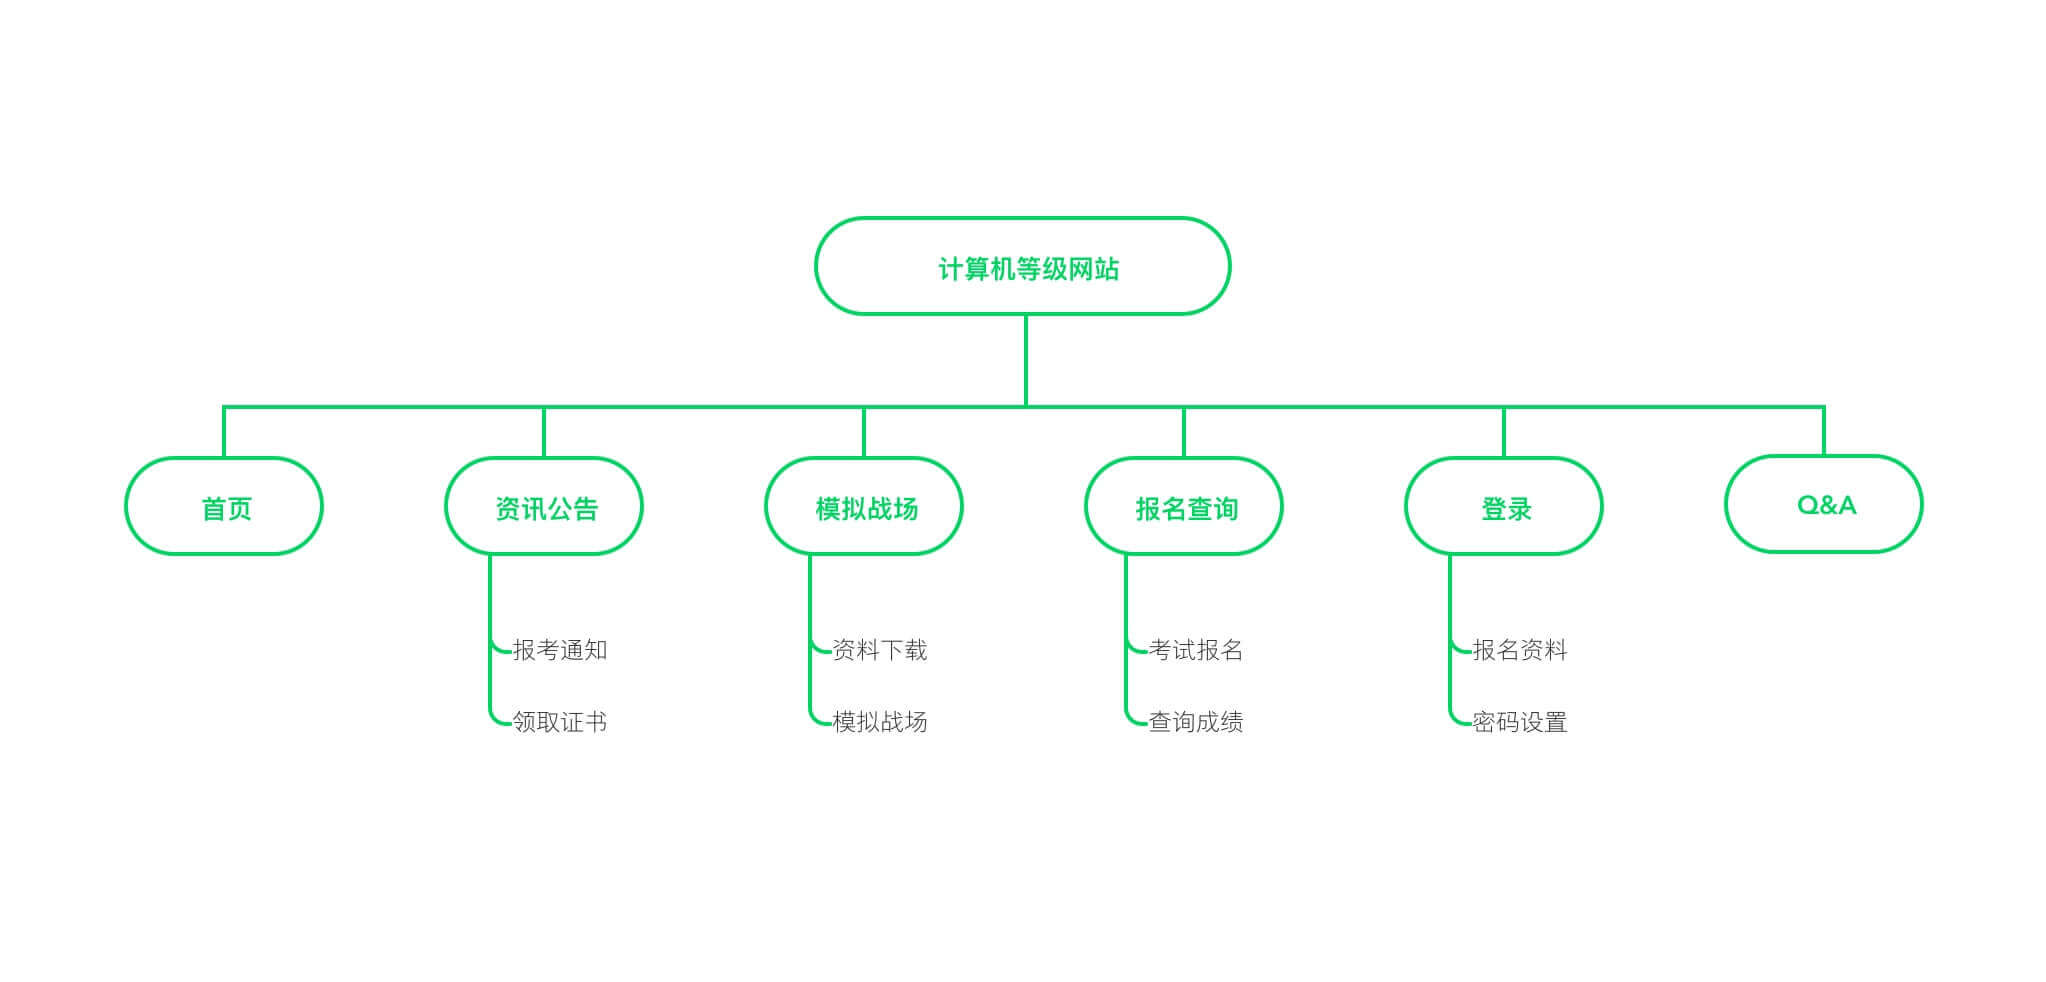
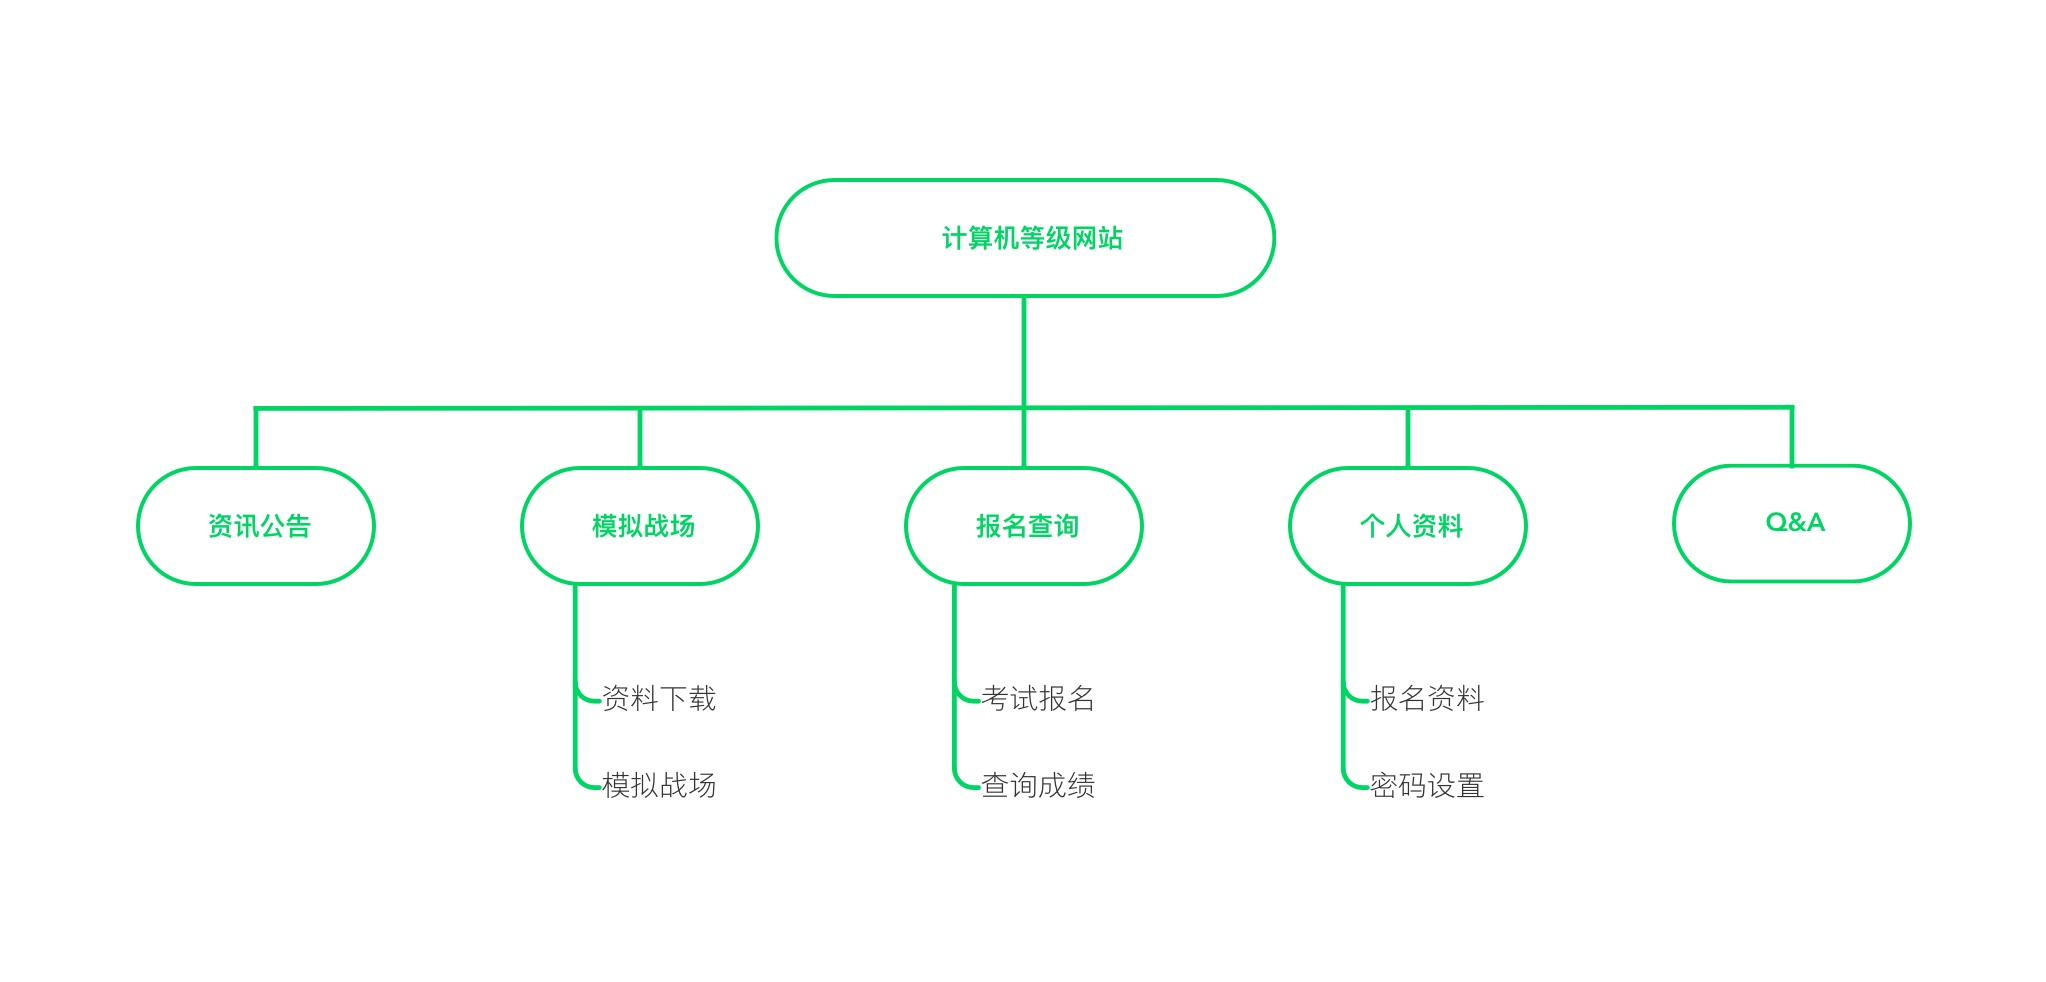
add signup module
add signup module

diff --git a/portfolio/clt.html b/portfolio/clt.html
@@ -73,7 +73,7 @@
             <div class="section-part">
                 <p class="part-head">思考，局限，挑战</p>
                 <p class="paragraph">由于计机网宣传较少的原因，班长发送消息往往比计机网所发布的更快让学生知晓。让计机网变得可有可无。如何更加好的帮助学生通过计算机等级考试成为重点。在此老师希望增加试题和报名等功能来完善网站，更好的应和学生的需求。</p>
-                <p class="paragraph">所以这次主要的问题是<span class="highlight">合理重构网站的功能结构，并且制定一个合理的模拟考试模块</span>成为了主要目标。</p>
+                <p class="paragraph">所以这次主要的问题是<span class="highlight">合理重构网站的功能结构，并且制定一个合理的模拟考试模块和报名模块</span>成为了主要目标。</p>
                 <p class="paragraph">但由于前期开发经费基本零，开展调查无法扩展一定范围，前期难以收集一定量的数据。</p>
             </div>
         </section>
@@ -108,11 +108,18 @@
             <div class="section-part">
                 <p class="part-head">功能结构</p>
                 <p class="paragraph">旧版网站中的内容主要以资讯公告类为主，但现在不但有资讯，并且有试题，报名等新功能的出现。所以重新规划结构就非常重要啦。</p>
+                <p class="paragraph">首先将需求全部罗列出来，看下具体有什么需求。</p>
+                <div class="pic">
+                    <img src="../img/clt/needs.png">
+                </div>
                 <p class="paragraph">物以类聚，人以群分。在结构规划中也是这个道理，相同的类项归类到一个单元下，方便用户查找。</p>
                 <p class="paragraph">按照这种分类思想：我对所有功能进行了整理：</p>
                 <div class="pic">
                     <img src="../img/clt/ia.jpg">
                 </div>
+                <p class="paragraph">报考资讯、领取证书等<span class="highlight">资讯公告文章更新频率不高、量且不多</span>，合并于资讯公告一栏中。</p>
+                <p class="paragraph">资料下载、模拟战场均属于备考中会用到的功能，所以归类至一起。</p>
+                <p class="paragraph">以此类推，归类出了报名查询，个人资料，问与答模块。</p>
             </div>
         </section>
 
@@ -131,7 +138,7 @@
                     <img src="../img/clt/test1.jpg">
 
                     <div class="illustrate illustrate-left illus1">
-                        因为每个等级考试里还分为多个考试种类，将等级与类型分开选择，减少选择干扰。
+                        因为每个等级考试里还分为多个考试种类，将等级与类型分开选择，减少选择干扰。如果提交时缺选，会在选择框旁边提示用户选择。
                     </div>
                 </div>
                 <div class="pic">
@@ -152,6 +159,17 @@
             </div>
         </section>
 
+        <section>
+            <div class="section-part">
+                <p class="part-head">报名模块</p>
+                <p class="paragraph">当用户需要报名参加考试时，必须登录个人账户方可报名，并且报名完之后再点击报名时会自动跳转至个人报名详情页。一是防止数据库重复录入同一个学生信息，二是可以方便追踪到改学生的具体信息（账号名统一为学生的个人学生号）。</p>
+                <div class="pic">
+                    <img src="../img/clt/signup-flow.png">
+                    <img src="../img/clt/test4.jpg">
+                </div>
+            </div>
+        </section>
+
          <section>
              <div class="section-part">
                  <p class="part-head">附件：</p>
@@ -159,7 +177,10 @@
                      <a href="../img/clt/clt-flow-chart.pdf" target="_blank">点击查看具体页面流程图>></a>
                  </p>
                  <p class="paragraph new-link">
-                     <a href="../img/clt/clt-flow-chart.pdf" target="_blank">点击查看具体页面流程图>></a>
+                     <a href="../img/clt/student-persona.jpg" target="_blank">点击查看具体文字版学生persona>></a>
+                 </p>
+                 <p class="paragraph new-link">
+                     <a href="../img/clt/teacher-persona.jpg" target="_blank">点击查看具体文字版老师persona>></a>
                  </p>
              </div>
          </section>
@@ -168,9 +189,9 @@
             <div class="section-part">
                 <p class="part-head">总结</p>
                 <p class="paragraph">
-                    项目从收集需求，整理信息架构、到制作页面、调整细节、最终通过验收，在离开学校开始实习前有了一个基本的项目流程概念。
-                    虽然像界面设计是第一次做，但从了解到用户需求，参考分析了类似的资讯类网站，才知道了围绕以用户为中心而设计的重要性－
-                    <span class="highlight">用户才是网站使用主体</span>。
+                    项目从收集需求，整理信息架构、到制作页面、调整细节、最终通过验收，在离开学校开始实习前<span class="highlight">有了一个基本的项目流程概念</span>。
+                    也注意到出了正常的流程之外还需<span class="highlight">考虑一些额外的情况</span>，成功了怎样，失败了又是怎样告知用户的。
+
                 </p>
             </div>
         </section>

diff --git a/js/script.js b/js/script.js
@@ -54,7 +54,7 @@ window.onload = function () {
     //为指定的dom元素添加样式
     function checkCurrent(el,elHeight,styleClassName) {
         for(var i=0;i<el.length;i++){
-            if( document.documentElement.scrollTop + document.documentElement.clientHeight >= elHeight[i] &&  document.documentElement.scrollTop <= elHeight[i]){
+            if( document.documentElement.scrollTop + document.documentElement.clientHeight >= elHeight[i] &&  document.documentElement.scrollTop+22 <= elHeight[i]){
                 addClass(el[i],styleClassName);
             }else{
                 removeClass(el[i],styleClassName);

diff --git a/css/article.css b/css/article.css
@@ -128,7 +128,7 @@
 .paragraph{
     max-width: 700px;
     margin: 0 auto;
-    padding: 14px 0;
+    padding: 6px 0;
     line-height: 1.8;
 }
 
